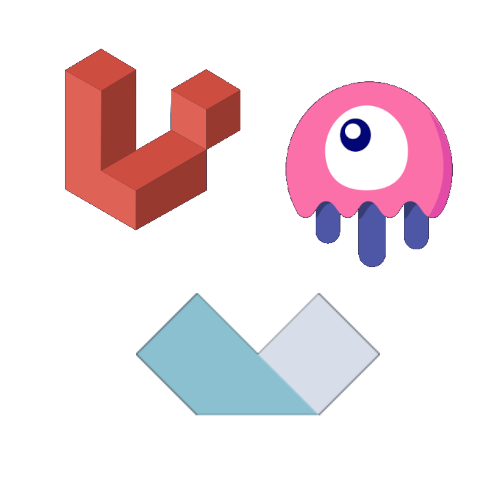
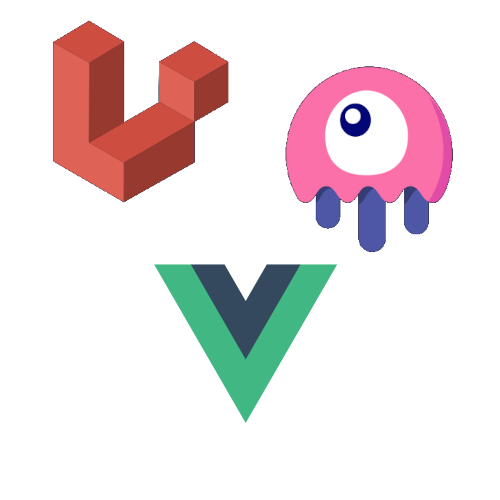
skills update

Changed region(s): [[0.27, 0.12, 0.93, 0.84], [0.09, 0.03, 0.48, 0.48], [0.69, 0.48, 0.78, 0.54]]

diff --git a/index.html b/index.html
@@ -70,7 +70,7 @@
             <div class="home__container container grid">
                 <div class="home__content grid">
                     <div class="home__social">
-                        <a href="https://github.com/kuronneko" target="_blank" class="home__social-icon">
+                        <a href="#" target="_blank" id="persona-github" class="home__social-icon">
                             <i class="uil uil-github-alt"></i>
                         </a>
                     </div>
@@ -121,12 +121,10 @@
             <span class="section__subtitle">My introduction</span>
             <div class="about__container container">
                 <div class="about__data">
-                    <p class="about__description">Full-Stack Developer with great skills in PHP and JAVA.
+                    <p class="about__description">Full-Stack Developer with great skills in PHP, JAVA and JAVASCRIPT.
                         <br>
                         I have a lot of experience writting code in raw language code, building Apps using object-oriented desing patterns as DAO, and DTO. 
                         I now specialize in developing modern Web Apps with the LAMP stack, using the PHP framework Laravel and his Full-Stack framework called Livewire.
-                        <br>
-                        This is a recent new stack for build modern Web Apps only with the syntax of Laravel and Blade. With Livewire you can do anything similar than VueJS and the MEVN stack.
                         <br>
                         Also, I have some experience designing complex relational databases, having an advanced knowledge in SQL language.
                         <br>
@@ -143,7 +141,7 @@
                         </div>
                     </div>
                     <div class="about__buttons">
-                        <a download="" href="assets/pdf/cv.pdf" class="button button--flex">
+                        <a download="" href="#contact" class="button button--flex">
                             Download CV <i class="uil uil-download-alt button__icon"></i>
                         </a>
                     </div>
@@ -281,7 +279,7 @@
                             <div class="skills__data">
                                 <div class="skills__titles">
                                     <h3 class="skills__name">AlpineJS</h3>
-                                    <span class="skills__number">30%</span>
+                                    <span class="skills__number">50%</span>
                                 </div>
                                 <div class="skills__bar">
                                     <span class="skills__percentage skills__alpine"></span>
@@ -311,7 +309,7 @@
                             <div class="skills__data">
                                 <div class="skills__titles">
                                     <h3 class="skills__name">VueJS</h3>
-                                    <span class="skills__number">30%</span>
+                                    <span class="skills__number">50%</span>
                                 </div>
                                 <div class="skills__bar">
                                     <span class="skills__percentage skills__vue"></span>
@@ -701,7 +699,7 @@
                         <i class="uil uil-whatsapp contact__icon"></i>
                         <div>
                             <h3 class="contact__title">WhatsApp</h3>
-                            <a class="contact__subtitle" id="persona-whatsapp-link" href="" target="_blank"><span id="persona-whatsapp"></span></a>
+                            <a class="contact__subtitle" id="persona-whatsapp-link" href="#" target="_blank"><span id="persona-whatsapp"></span></a>
                         </div>
                     </div>
 
@@ -747,13 +745,13 @@
                 </ul>
 
                 <div class="footer__socials">
-                    <a href="#" class="footer__social">
-                        <i class="uil uil-facebook-f"></i>
+                    <a href="#" id="persona-github" target="_blank" class="footer__social">
+                        <i class="uil uil-github-alt"></i>
                     </a>
-                    <a href="#" class="footer__social">
+                    <a href="#" id="persona-instagram" target="_blank" class="footer__social">
                         <i class="uil uil-instagram"></i>
                     </a>
-                    <a href="#" class="footer__social">
+                    <a href="#" id="persona-twitter" target="_blank" class="footer__social">
                         <i class="uil uil-twitter-alt"></i>
                     </a>
                 </div>

diff --git a/assets/js/main.js b/assets/js/main.js
@@ -202,14 +202,18 @@ async function getPersona() {
 }
 
 getPersona().then(data => {
-    let elms = document.querySelectorAll("[id='persona-name']");
-    for(let i = 0; i < elms.length; i++) {
-        elms[i].textContent = data.name+ ' ' +data.lastname;
+    let personaNames = document.querySelectorAll("[id='persona-name']");
+    for(let i = 0; i < personaNames.length; i++) {
+        personaNames[i].textContent = data.name+ ' ' +data.lastname;
     }
     document.getElementById('persona-email').textContent = data.email;
     document.getElementById('persona-whatsapp').textContent = "+"+data.whatsapp.toString().substring(0,2) + " " + data.whatsapp.toString().substring(2,3) + " " + data.whatsapp.toString().substring(3,7) + " " + data.whatsapp.toString().substring(7);
-    document.getElementById('persona-location').textContent = data.location;
     document.getElementById('persona-whatsapp-link').href="https://wa.me/"+data.whatsapp+"?text=Hi, "+data.name+" ";
+    document.getElementById('persona-location').textContent = data.location;
+    let personaGithubs = document.querySelectorAll("[id='persona-github']");
+    for(let i = 0; i < personaGithubs.length; i++) {
+        personaGithubs[i].href = data.github;
+    }
     document.getElementById('cover-spin').style.display = "none";
 }).catch(error => {
     alert(error)

diff --git a/assets/css/styles.css b/assets/css/styles.css
@@ -555,10 +555,10 @@ img{
     width: 98%;
 }
 .skills__alpine{
-    width: 30%;
+    width: 50%;
 }
 .skills__vue{
-    width: 30%;
+    width: 50%;
 }
 .skills__sql{
     width: 90%;
@@ -1378,7 +1378,7 @@ img{
     display:block;
     position:absolute;
     left:48%;top:40%;
-    width:40px;height:40px;
+    width:30px;height:30px;
     border-style:solid;
     border-color:var(--title-color);
     border-top-color:transparent;
